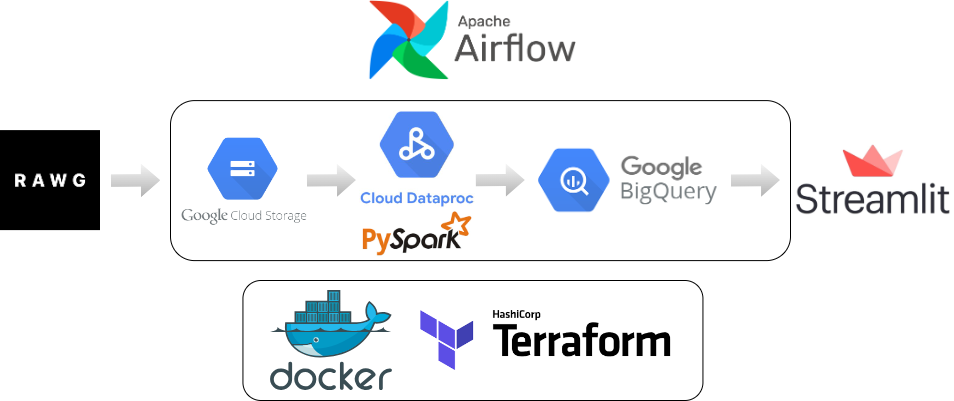
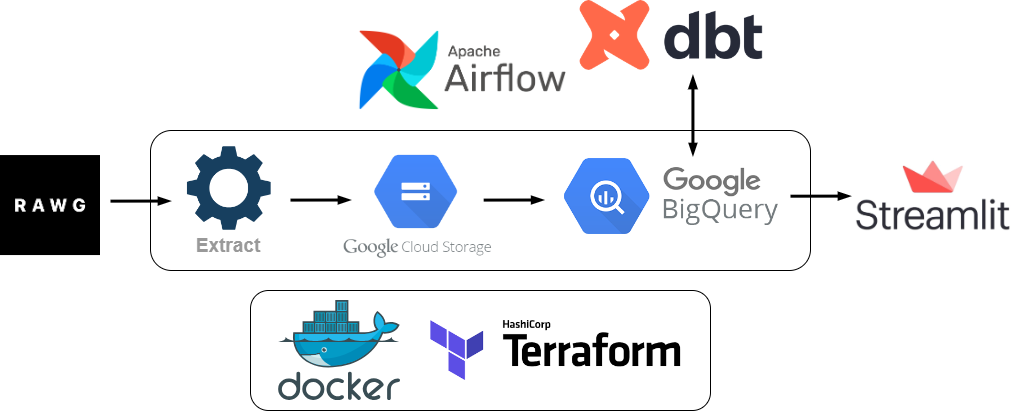
Remove PySpark support

diff --git a/README.md b/README.md
@@ -8,7 +8,7 @@ A data pipeline I am working on made using RAWG's Database API to explore trends
 The pipeline is orchestrated by Airflow in the following steps:
 1. The data is extracted and parsed from RAWG's API
 2. A connection to Google Storage is programmatically made to load the data into it
-3. Dataprocs runs a PySpark cluster to process the data in Google Storage to BigQuery
+3. Data modeling is done through dbt for use in Big Query
 4. Streamlit connects to BigQuery to and visualizes the data
 
 Terraform will be used to manage the Google Cloud Platform infrastructure while Docker will containerize the above steps.
